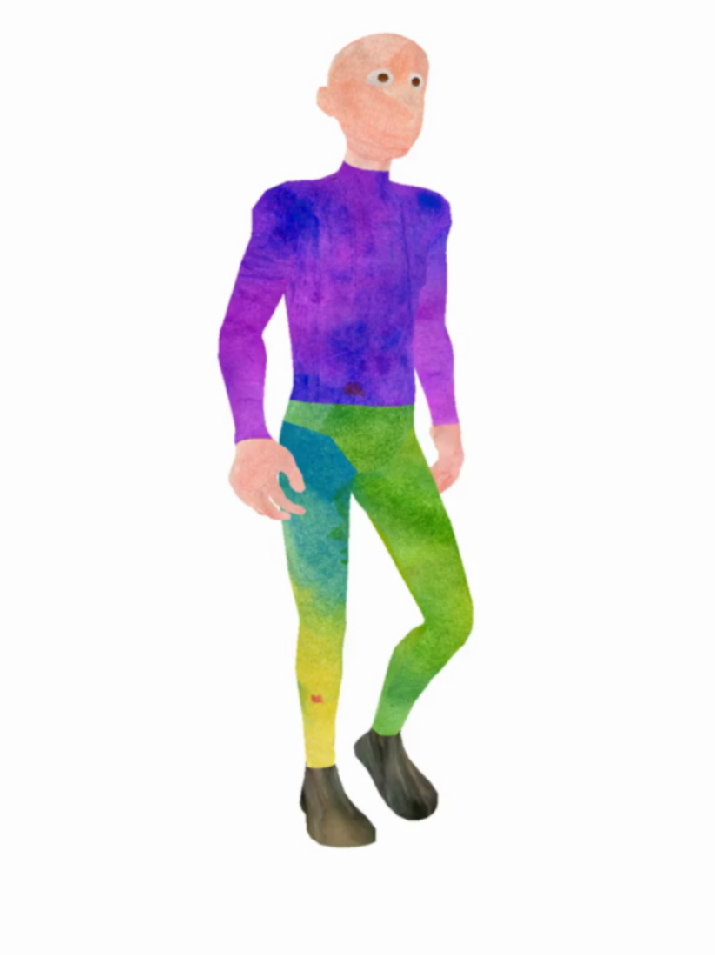
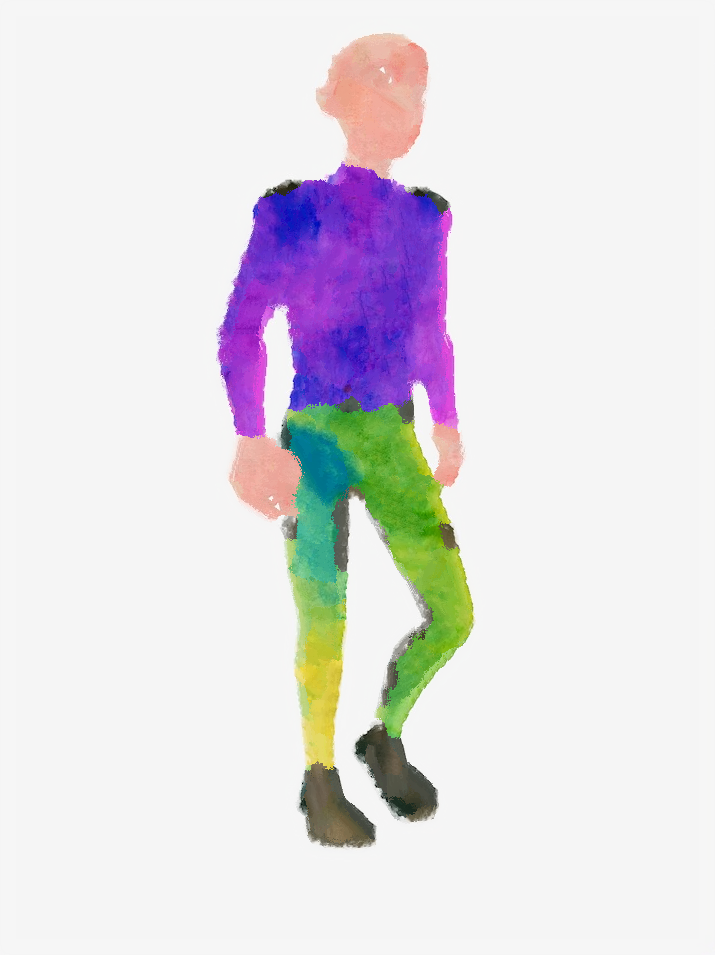
idk

diff --git a/cult.h b/cult.h
@@ -47,7 +47,7 @@ private:
     const int PATCH_RADIUS = 8;
     const int PATCHMATCH_ITERATIONS = 7;
     const int WEXLER_ITERS = 2;
-    const float FILTER_STRENGTH = 0.8;
+    const float FILTER_STRENGTH = 1.2;
     const int GRID_SIZE = 100;
 };
 
